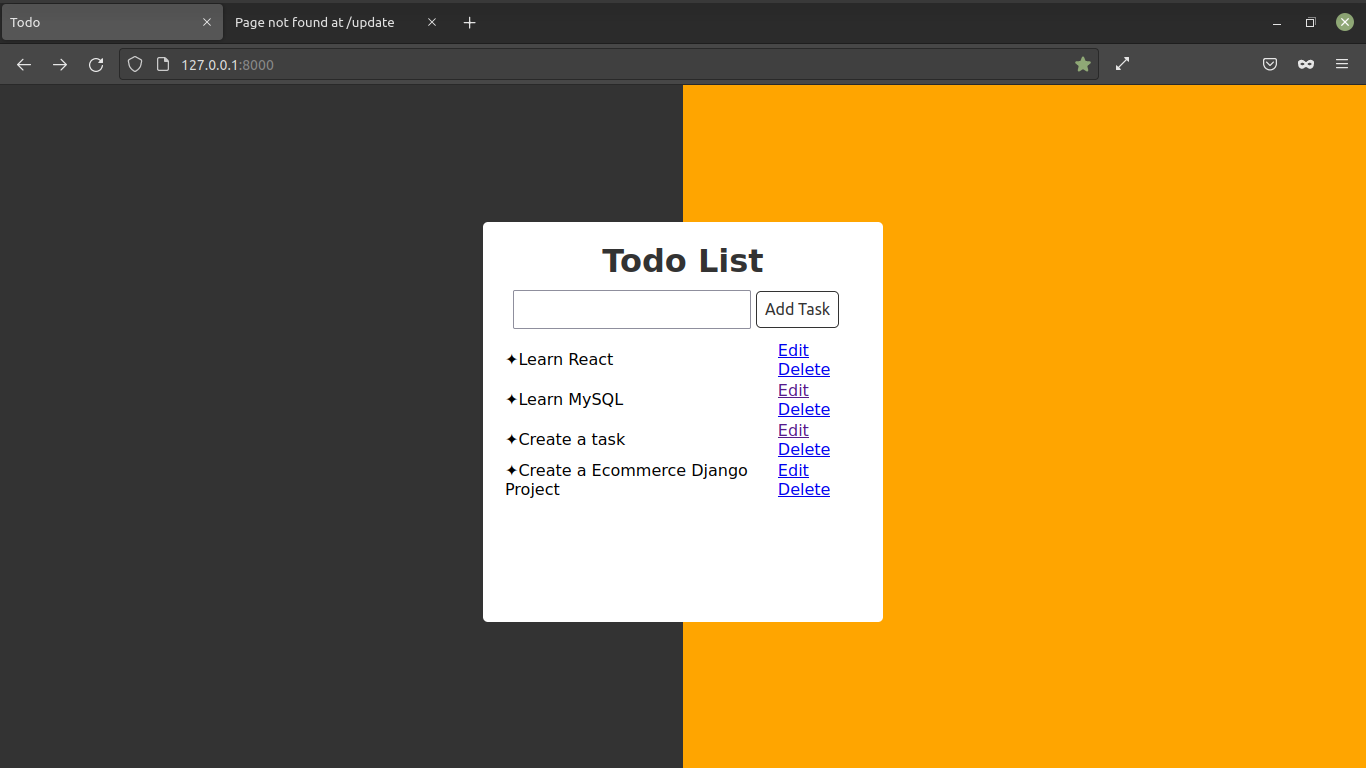
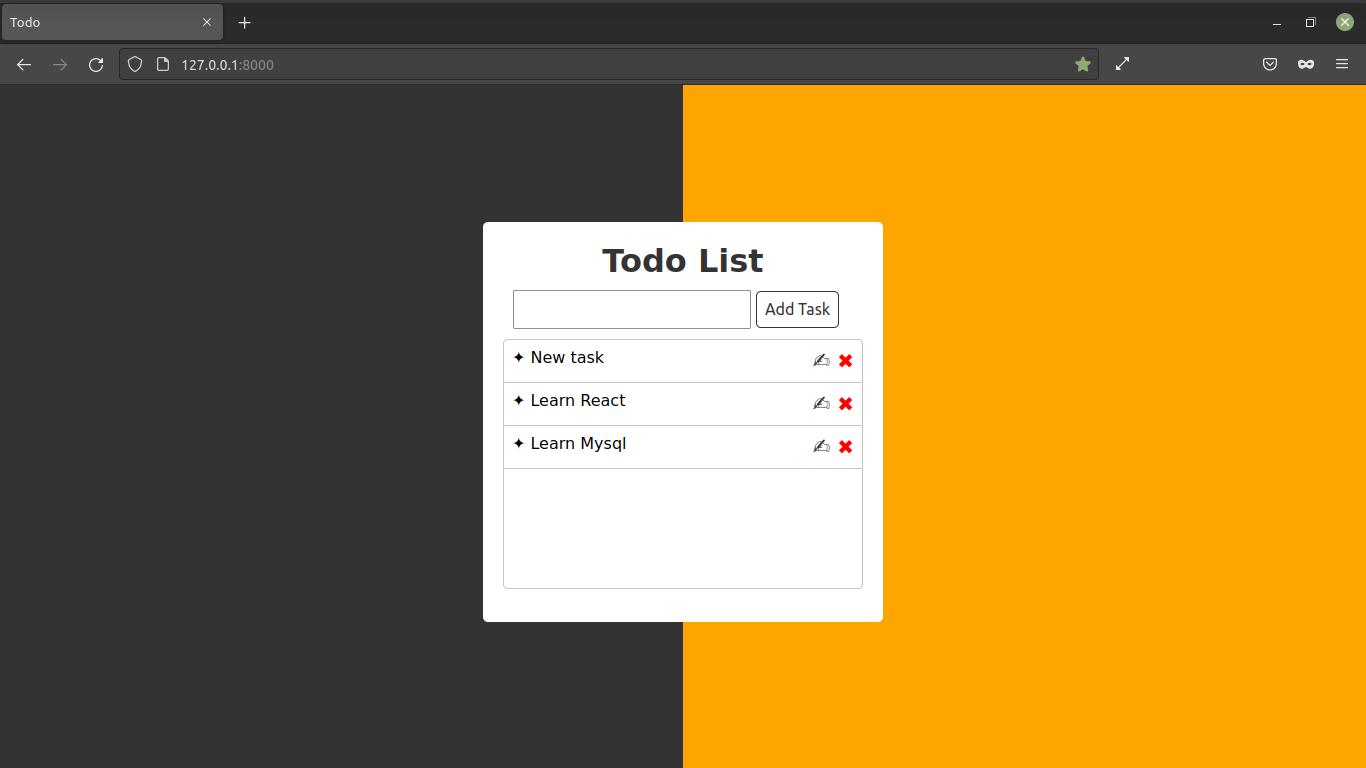
Some css styling added

Changed region(s): [[0.369, 0.4375, 0.6457, 0.6562], [0.369, 0.4375, 0.4612, 0.5312], [0.246, 0.0, 0.2767, 0.0312]]

diff --git a/todo_app/templates/todo_app/index.html b/todo_app/templates/todo_app/index.html
@@ -66,12 +66,43 @@
             color: #fff;
         }
 
+        
+
         .tasklist {
             display: flex;
-            justify-content: center;
+            position: relative;
             align-items: center;
-            font-size: 12pt;
+            flex-direction: column;
+            border: 1px solid rgba(51, 51, 51, 0.295);
+            border-radius: 5px;
+            /* margin-bottom: 8px; */
+            min-height: 250px;
         }
+
+        .content-left {
+            width: 100%;
+            float: left;
+            border-bottom: 1px solid rgba(51, 51, 51, 0.295);
+            padding: 8px;
+        }
+
+        .content-right {
+            float: right;
+           
+        }
+
+        .edit {
+            color: #333;
+            font-size: 16pt;
+            text-decoration: none;
+        }
+
+        .delete {
+            color: red;
+            font-size: 15pt;
+            text-decoration: none;
+        }
+        
         
     </style>
 </head>
@@ -88,24 +119,21 @@
                     <input type="submit" class="button" value="Add Task">
                 </form>
             </div>
+
             <div class="tasklist">
-                <table>
-                    {% for t in tasks %}
-                    <div class="task-list">
-                        <tr class="task-row">
-                            <td>&#10022;{{ t.task }}</td>
-                            <td>
-                                <a href="{% url 'update' t.id %}">Edit</a>
-                                <a href="{% url 'delete' t.id %}">Delete</a>
-                            </td>
-                        </tr>
-                    </div>
-                        {% empty %}
-                    <h2>No task found! Create a task.</h2>
-                        {% endfor %}
-                </table>
-                
+                {% for t in tasks %}
+                <div class="content-left">
+                    &#10022; {{ t.task }}
                     
+                    <span class="content-right">
+                        <a class="edit" href="{% url 'update' t.id %}">&#9997; </a>
+                        <a class="delete" href="{% url 'delete' t.id %}"> &#10006;</a>
+                    </span>
+                </div>
+                
+                    {% empty %}
+                <h2>No task found! Create a task.</h2>
+                    {% endfor %}
             </div>
         </div>
     </div>
